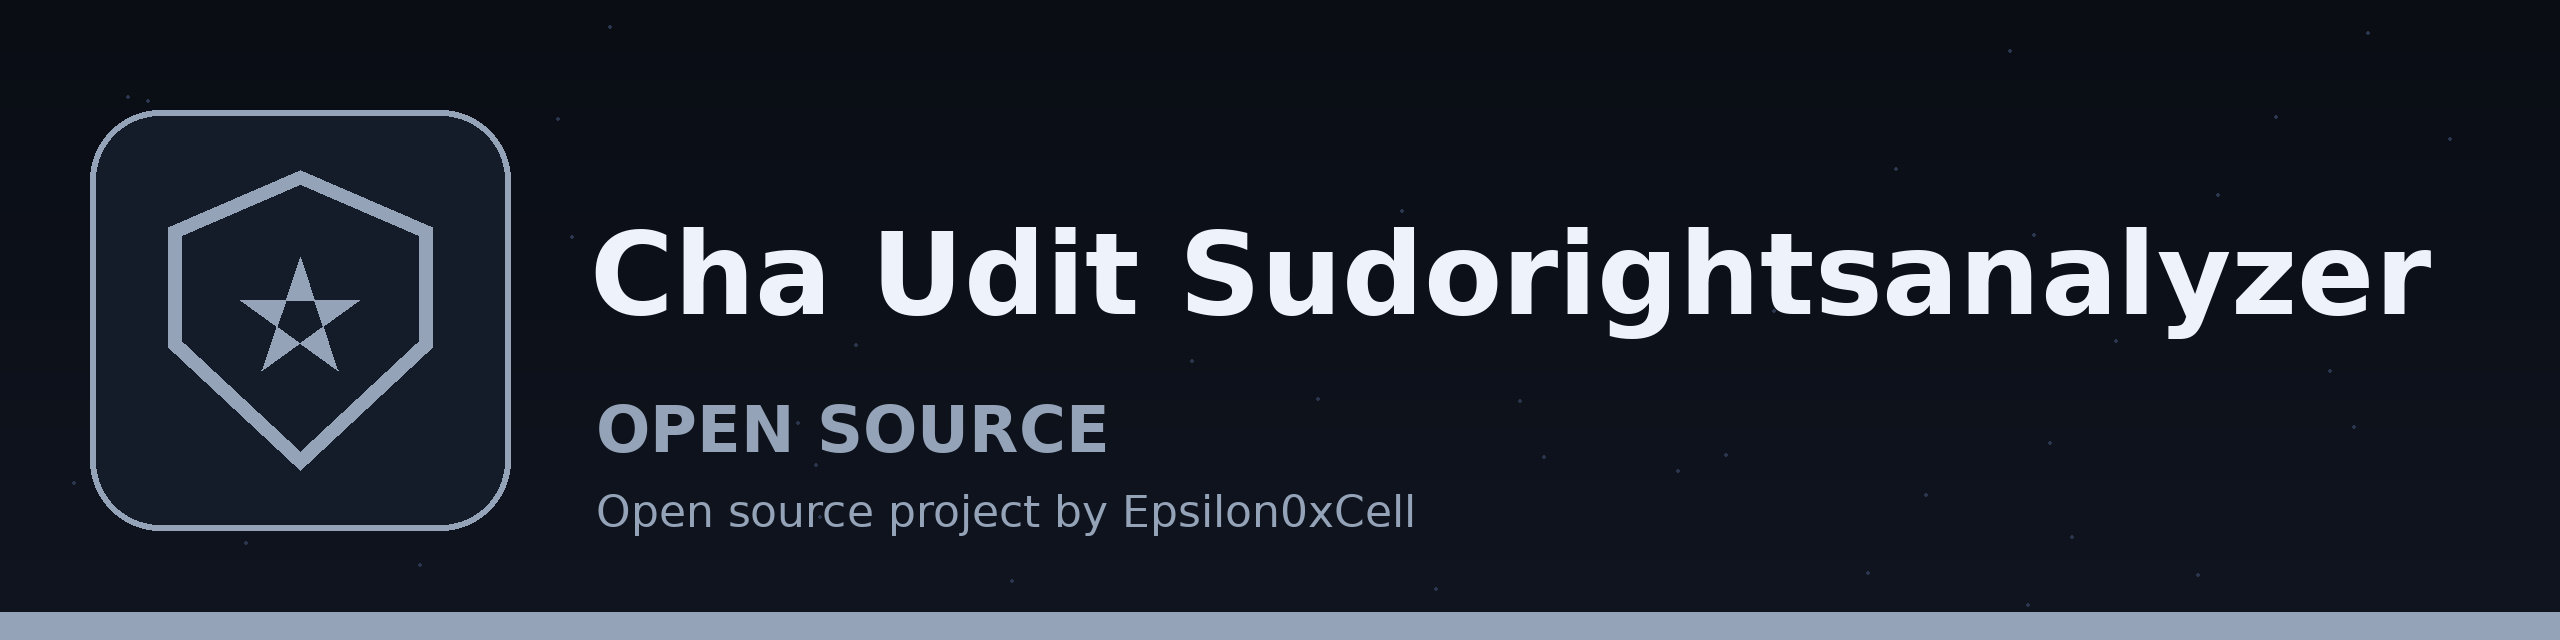
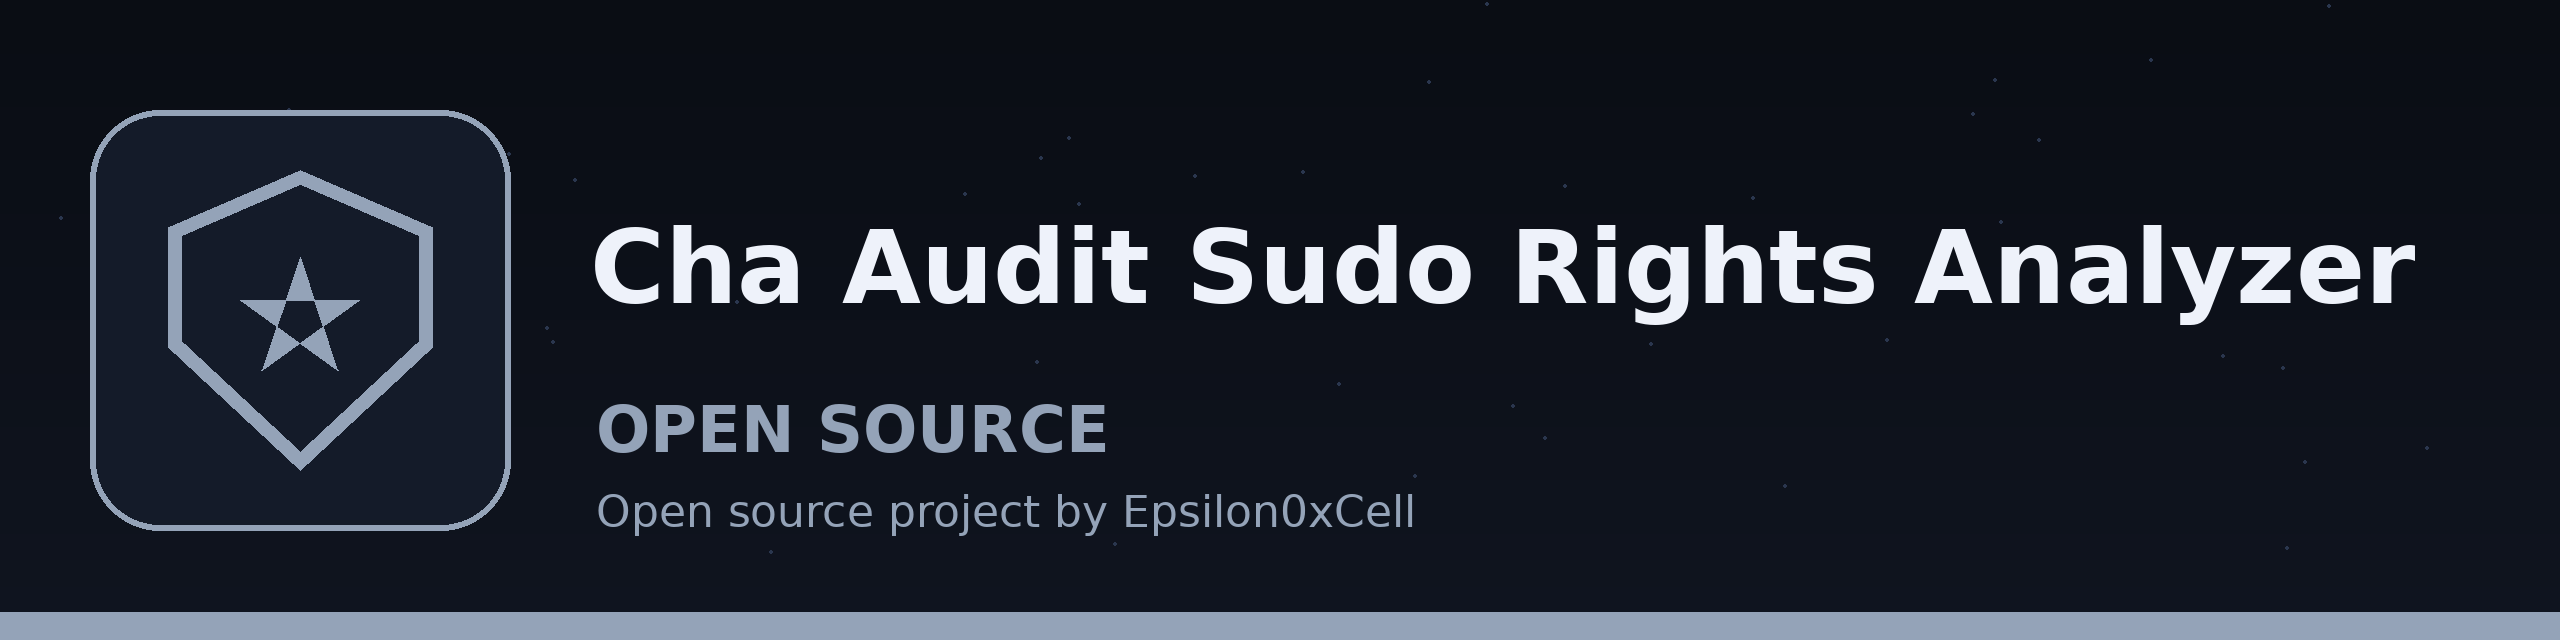
Update branding and README title for rename to cha-audit-sudo-rights-analyzer

Changed region(s): [[0.2188, 0.3438, 0.9688, 0.5312]]

diff --git a/README.md b/README.md
@@ -1,13 +1,13 @@
 ![Banner](banner.png)
 
-# cha-udit-SudoRightsAnalyzer
+# cha-audit-sudo-rights-analyzer
 Analyzes sudoers file for overly permissive or insecure sudo rights assignments, highlighting potential privilege escalation vulnerabilities. - Focused on Audits system configuration settings against security hardening benchmarks (e.g., CIS benchmarks). Checks for insecure configurations and generates reports with recommendations for remediation. Supports various operating systems (Windows, Linux, macOS).
 
 ## Install
-`git clone https://github.com/ShadowGuardAI/cha-udit-sudorightsanalyzer`
+`git clone https://github.com/ShadowGuardAI/cha-audit-sudo-rights-analyzer`
 
 ## Usage
-`./cha-udit-sudorightsanalyzer [params]`
+`./cha-audit-sudo-rights-analyzer [params]`
 
 ## Parameters
 - `-h`: Show help message and exit
